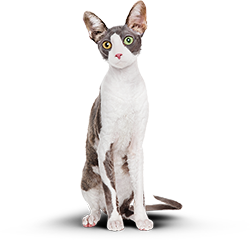
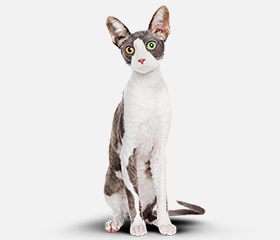
Слайдер и функции

Changed region(s): [[0.2231, 0.0, 0.753, 1.0], [0.5857, 0.35, 0.6135, 0.3792]]

diff --git a/src/styles/stats-block/stats.less b/src/styles/stats-block/stats.less
@@ -91,67 +91,95 @@
 	flex-direction: column;
 }
 
-.stats__images {
-	position: relative;
-	width: 311px;
-	height: 240px;
+.img-comp-container {
+  position: relative;
+  width: 280px;
+  height: 240px;
 
-	margin-bottom: 35px;
-	margin-top: 40px;
+  margin-top: 30px;
+  margin-left: 10px;
+  margin-bottom: 35px;
 }
 
-.deflector1 {
-	position: absolute;
-	top: 0px;
-	left: 0px;
+.img-comp-img {
+  position: absolute;
+  width: auto;
+  height: auto;
+  overflow: hidden;
+}
 
+.img-comp-img img {
+  display: block;
+  vertical-align: middle;
+  min-height: 240px;
+  min-width: 280px;
+}
+
+.img-comp-overlay {
+	width: 140px;
+}
+
+.range-filter {
 	width: 100%;
-	min-height: 240px;
 
-	background-image: url(../img/before-mobile.png);
-	background-repeat: no-repeat;
-	background-position: center; 
-	background-size: 311px 232px;
-	background-color: #f2f2f2;
-	background-attachment: local;
+	display: flex;
+	justify-content: center;
+	align-items: center;
+
 }
 
-// .deflector1-1 {
-// 	position: absolute;
-// 	top: 0px;
-// 	left: 0px;
+.range-controls {
+	margin-left: 15px;
+	width: 200px;
+	display: flex;
+	justify-content: space-between;
+	align-items: center;
 
-// 	width: 50%;
-// 	min-height: 240px;
+}
 
-// 	background-color: #f2f2f2;
-// 	z-index: 7;
-// }
+.stats__text {
+	font-family: oswald;
+	font-size: 16px;
+	line-height: 20px;
+	color: #000000;
+	text-transform: uppercase;
+}
 
-.deflector2 {
-	position: absolute;
-	top: 0px;
-	right:0px;
+.scale {
+	position: relative;
+	width: 84px;
+	height: 14px;
+	padding: 5px 7px;
 
+	display: flex;
+	align-items: center;
+	justify-content: flex-start;
+
+	border: 1px solid #cdcdcd;
+	border-radius: 6px;
+	background-color: #ffffff;
+
+	cursor: pointer;
+}
+
+.bar {
+	height: 6px;
 	width: 50%;
-	min-height: 240px;
-
-	background-image: url(../img/after-mobile.png);
-	background-repeat: no-repeat;
-	background-position: center; 
-	background-size: auto;
-	background-color: #f2f2f2;
-	background-attachment: local;
+	
+	border-radius: 3px;
+	background-color: #68b738;
 }
 
-// .deflector2-1 {
-// 	position: absolute;
-// 	top: 0px;
-// 	right:0px;
+.position {
+	position: absolute;
+	top: 50%;
+	left: 50%;
 
-// 	width: 50%;
-// 	min-height: 240px;
+	width: 10px;
+	height: 10px;
+	margin-top: -5px;
+	margin-left: -5px;
 
-// 	background-color: #f2f2f2;
-// 	z-index: 9;
-// }
+	background-color: red;
+	cursor: ew-resize;
+}

diff --git a/src/index.html b/src/index.html
@@ -120,22 +120,28 @@
               </table>
             
             <div class="stats__results-images">
-              <div class="stats__images">
-                  <div class="deflector1"></div>
-                  <div class="deflector2"></div>
-                  <div class="deflector1-1"></div>
-                  <div class="deflector2-1"></div>
-
+              <div class="img-comp-container">
+                <div class="img-comp-img">
+                  <img src="img/after-mobile.png" width="280" height="240">
+                </div>
+                <div class="img-comp-img img-comp-overlay">
+                  <img src="img/before-mobile.png" width="280" height="240">
+                </div>
               </div>
               <div class="range-filter">
-                          <div class="range-controls">
-                            <span class="stats__before">Было</span>
-                            <div class="scale">
-                              <div class="bar"></div>
-                            </div>
-                            <span class="stats__after">Стало</span>
-                          </div>
-                        </div>
+                <div class="range-controls">
+                  <span class="stats__text">
+                    Было
+                  </span>
+                  <div class="scale">
+                    <div class="bar"></div>
+                    <div class="position"></div>
+                  </div>
+                  <span class="stats__text">
+                    Стало
+                  </span>
+                </div>
+              </div>
             </div>
           </div>
         </section>
@@ -173,6 +179,6 @@
     		</div>
     	</footer>
     </footer>
-    
+    <script src="js/slider.js"></script>
 </body>
 </html>

diff --git a/src/js/slider.js b/src/js/slider.js
@@ -1,0 +1,6 @@
+const overlayImg = document.querySelector('.img-comp-overlay');
+const punktPos = document.querySelector('.position');
+const bar = document.querySelector('.bar');
+const scale = document.querySelector('.scale');
+
+const 
